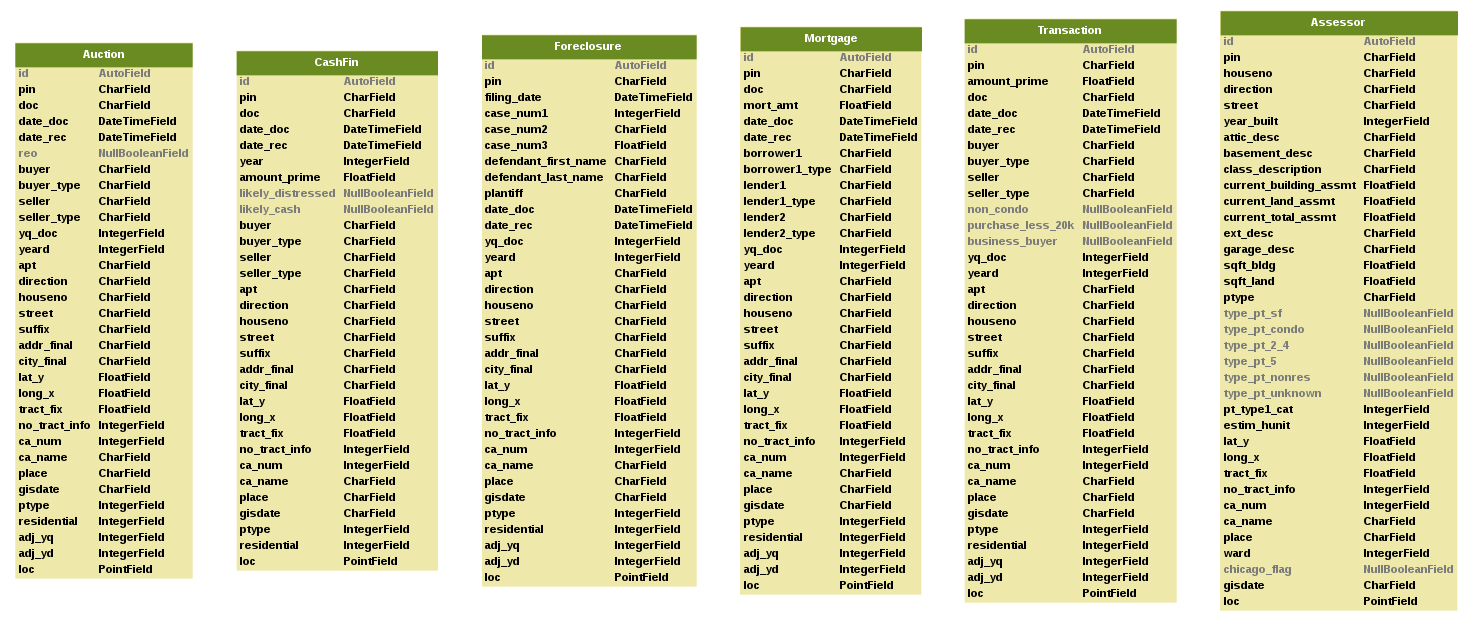
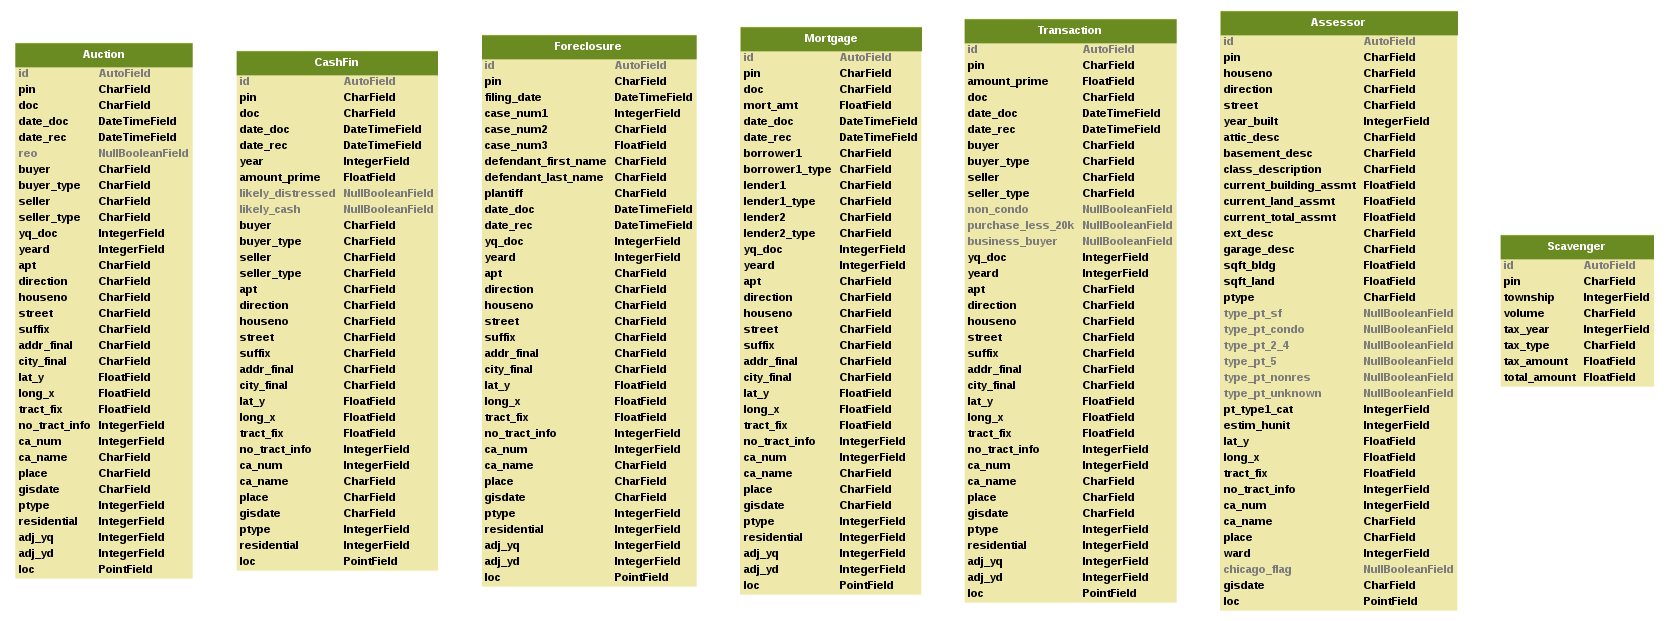
Added 'Scavenger' as a django model; created and applied database migration; generated new db model image; created and tested load script; ran the import successfully. Reproduced Katie's summary results successfully. Closes #18.

diff --git a/landbank/landbank_data/migrations/0003_auto__add_scavenger.py b/landbank/landbank_data/migrations/0003_auto__add_scavenger.py
@@ -1,0 +1,263 @@
+# -*- coding: utf-8 -*-
+import datetime
+from south.db import db
+from south.v2 import SchemaMigration
+from django.db import models
+
+
+class Migration(SchemaMigration):
+
+    def forwards(self, orm):
+        # Adding model 'Scavenger'
+        db.create_table(u'landbank_data_scavenger', (
+            (u'id', self.gf('django.db.models.fields.AutoField')(primary_key=True)),
+            ('pin', self.gf('django.db.models.fields.CharField')(max_length=14, db_index=True)),
+            ('township', self.gf('django.db.models.fields.IntegerField')(null=True)),
+            ('volume', self.gf('django.db.models.fields.CharField')(max_length=3, null=True)),
+            ('tax_year', self.gf('django.db.models.fields.IntegerField')(null=True)),
+            ('tax_type', self.gf('django.db.models.fields.CharField')(max_length=2, null=True)),
+            ('tax_amount', self.gf('django.db.models.fields.FloatField')(null=True)),
+            ('total_amount', self.gf('django.db.models.fields.FloatField')(null=True)),
+        ))
+        db.send_create_signal('landbank_data', ['Scavenger'])
+
+
+    def backwards(self, orm):
+        # Deleting model 'Scavenger'
+        db.delete_table(u'landbank_data_scavenger')
+
+
+    models = {
+        'landbank_data.assessor': {
+            'Meta': {'object_name': 'Assessor'},
+            'attic_desc': ('django.db.models.fields.CharField', [], {'max_length': '250', 'null': 'True'}),
+            'basement_desc': ('django.db.models.fields.CharField', [], {'max_length': '250', 'null': 'True'}),
+            'ca_name': ('django.db.models.fields.CharField', [], {'max_length': '100', 'null': 'True'}),
+            'ca_num': ('django.db.models.fields.IntegerField', [], {'null': 'True'}),
+            'chicago_flag': ('django.db.models.fields.NullBooleanField', [], {'null': 'True', 'blank': 'True'}),
+            'class_description': ('django.db.models.fields.CharField', [], {'max_length': '250', 'null': 'True'}),
+            'current_building_assmt': ('django.db.models.fields.FloatField', [], {'null': 'True'}),
+            'current_land_assmt': ('django.db.models.fields.FloatField', [], {'null': 'True'}),
+            'current_total_assmt': ('django.db.models.fields.FloatField', [], {'null': 'True'}),
+            'direction': ('django.db.models.fields.CharField', [], {'max_length': '2', 'null': 'True'}),
+            'estim_hunit': ('django.db.models.fields.IntegerField', [], {'null': 'True'}),
+            'ext_desc': ('django.db.models.fields.CharField', [], {'max_length': '100', 'null': 'True'}),
+            'garage_desc': ('django.db.models.fields.CharField', [], {'max_length': '100', 'null': 'True'}),
+            'gisdate': ('django.db.models.fields.CharField', [], {'max_length': '100', 'null': 'True'}),
+            'houseno': ('django.db.models.fields.CharField', [], {'max_length': '100', 'null': 'True'}),
+            u'id': ('django.db.models.fields.AutoField', [], {'primary_key': 'True'}),
+            'lat_y': ('django.db.models.fields.FloatField', [], {'null': 'True'}),
+            'loc': ('django.contrib.gis.db.models.fields.PointField', [], {'null': 'True'}),
+            'long_x': ('django.db.models.fields.FloatField', [], {'null': 'True'}),
+            'no_tract_info': ('django.db.models.fields.IntegerField', [], {'null': 'True'}),
+            'pin': ('django.db.models.fields.CharField', [], {'max_length': '14', 'db_index': 'True'}),
+            'place': ('django.db.models.fields.CharField', [], {'max_length': '100', 'null': 'True'}),
+            'pt_type1_cat': ('django.db.models.fields.IntegerField', [], {'null': 'True'}),
+            'ptype': ('django.db.models.fields.CharField', [], {'max_length': '100', 'null': 'True'}),
+            'sqft_bldg': ('django.db.models.fields.FloatField', [], {'null': 'True'}),
+            'sqft_land': ('django.db.models.fields.FloatField', [], {'null': 'True'}),
+            'street': ('django.db.models.fields.CharField', [], {'max_length': '100', 'null': 'True'}),
+            'tract_fix': ('django.db.models.fields.FloatField', [], {'null': 'True'}),
+            'type_pt_2_4': ('django.db.models.fields.NullBooleanField', [], {'null': 'True', 'blank': 'True'}),
+            'type_pt_5': ('django.db.models.fields.NullBooleanField', [], {'null': 'True', 'blank': 'True'}),
+            'type_pt_condo': ('django.db.models.fields.NullBooleanField', [], {'null': 'True', 'blank': 'True'}),
+            'type_pt_nonres': ('django.db.models.fields.NullBooleanField', [], {'null': 'True', 'blank': 'True'}),
+            'type_pt_sf': ('django.db.models.fields.NullBooleanField', [], {'null': 'True', 'blank': 'True'}),
+            'type_pt_unknown': ('django.db.models.fields.NullBooleanField', [], {'null': 'True', 'blank': 'True'}),
+            'ward': ('django.db.models.fields.IntegerField', [], {'null': 'True'}),
+            'year_built': ('django.db.models.fields.IntegerField', [], {'null': 'True'})
+        },
+        'landbank_data.auction': {
+            'Meta': {'object_name': 'Auction'},
+            'addr_final': ('django.db.models.fields.CharField', [], {'max_length': '100', 'null': 'True'}),
+            'adj_yd': ('django.db.models.fields.IntegerField', [], {'null': 'True'}),
+            'adj_yq': ('django.db.models.fields.IntegerField', [], {'null': 'True'}),
+            'apt': ('django.db.models.fields.CharField', [], {'max_length': '10', 'null': 'True'}),
+            'buyer': ('django.db.models.fields.CharField', [], {'max_length': '100', 'null': 'True'}),
+            'buyer_type': ('django.db.models.fields.CharField', [], {'max_length': '100', 'null': 'True'}),
+            'ca_name': ('django.db.models.fields.CharField', [], {'max_length': '100', 'null': 'True'}),
+            'ca_num': ('django.db.models.fields.IntegerField', [], {'null': 'True'}),
+            'city_final': ('django.db.models.fields.CharField', [], {'max_length': '100', 'null': 'True'}),
+            'date_doc': ('django.db.models.fields.DateTimeField', [], {'null': 'True'}),
+            'date_rec': ('django.db.models.fields.DateTimeField', [], {'null': 'True'}),
+            'direction': ('django.db.models.fields.CharField', [], {'max_length': '2', 'null': 'True'}),
+            'doc': ('django.db.models.fields.CharField', [], {'max_length': '16', 'null': 'True'}),
+            'gisdate': ('django.db.models.fields.CharField', [], {'max_length': '100', 'null': 'True'}),
+            'houseno': ('django.db.models.fields.CharField', [], {'max_length': '10', 'null': 'True'}),
+            u'id': ('django.db.models.fields.AutoField', [], {'primary_key': 'True'}),
+            'lat_y': ('django.db.models.fields.FloatField', [], {'null': 'True'}),
+            'loc': ('django.contrib.gis.db.models.fields.PointField', [], {'null': 'True'}),
+            'long_x': ('django.db.models.fields.FloatField', [], {'null': 'True'}),
+            'no_tract_info': ('django.db.models.fields.IntegerField', [], {'null': 'True'}),
+            'pin': ('django.db.models.fields.CharField', [], {'max_length': '14', 'db_index': 'True'}),
+            'place': ('django.db.models.fields.CharField', [], {'max_length': '100', 'null': 'True'}),
+            'ptype': ('django.db.models.fields.IntegerField', [], {'null': 'True'}),
+            'reo': ('django.db.models.fields.NullBooleanField', [], {'null': 'True', 'blank': 'True'}),
+            'residential': ('django.db.models.fields.IntegerField', [], {'null': 'True'}),
+            'seller': ('django.db.models.fields.CharField', [], {'max_length': '100', 'null': 'True'}),
+            'seller_type': ('django.db.models.fields.CharField', [], {'max_length': '100', 'null': 'True'}),
+            'street': ('django.db.models.fields.CharField', [], {'max_length': '50', 'null': 'True'}),
+            'suffix': ('django.db.models.fields.CharField', [], {'max_length': '10', 'null': 'True'}),
+            'tract_fix': ('django.db.models.fields.FloatField', [], {'null': 'True'}),
+            'yeard': ('django.db.models.fields.IntegerField', [], {'null': 'True'}),
+            'yq_doc': ('django.db.models.fields.IntegerField', [], {'null': 'True'})
+        },
+        'landbank_data.cashfin': {
+            'Meta': {'object_name': 'CashFin'},
+            'addr_final': ('django.db.models.fields.CharField', [], {'max_length': '100', 'null': 'True'}),
+            'amount_prime': ('django.db.models.fields.FloatField', [], {'null': 'True'}),
+            'apt': ('django.db.models.fields.CharField', [], {'max_length': '100', 'null': 'True'}),
+            'buyer': ('django.db.models.fields.CharField', [], {'max_length': '100', 'null': 'True'}),
+            'buyer_type': ('django.db.models.fields.CharField', [], {'max_length': '100', 'null': 'True'}),
+            'ca_name': ('django.db.models.fields.CharField', [], {'max_length': '100', 'null': 'True'}),
+            'ca_num': ('django.db.models.fields.IntegerField', [], {'null': 'True'}),
+            'city_final': ('django.db.models.fields.CharField', [], {'max_length': '100', 'null': 'True'}),
+            'date_doc': ('django.db.models.fields.DateTimeField', [], {'null': 'True'}),
+            'date_rec': ('django.db.models.fields.DateTimeField', [], {'null': 'True'}),
+            'direction': ('django.db.models.fields.CharField', [], {'max_length': '100', 'null': 'True'}),
+            'doc': ('django.db.models.fields.CharField', [], {'max_length': '16', 'null': 'True'}),
+            'gisdate': ('django.db.models.fields.CharField', [], {'max_length': '100', 'null': 'True'}),
+            'houseno': ('django.db.models.fields.CharField', [], {'max_length': '100', 'null': 'True'}),
+            u'id': ('django.db.models.fields.AutoField', [], {'primary_key': 'True'}),
+            'lat_y': ('django.db.models.fields.FloatField', [], {'null': 'True'}),
+            'likely_cash': ('django.db.models.fields.NullBooleanField', [], {'null': 'True', 'blank': 'True'}),
+            'likely_distressed': ('django.db.models.fields.NullBooleanField', [], {'null': 'True', 'blank': 'True'}),
+            'loc': ('django.contrib.gis.db.models.fields.PointField', [], {'null': 'True'}),
+            'long_x': ('django.db.models.fields.FloatField', [], {'null': 'True'}),
+            'no_tract_info': ('django.db.models.fields.IntegerField', [], {'null': 'True'}),
+            'pin': ('django.db.models.fields.CharField', [], {'max_length': '14', 'db_index': 'True'}),
+            'place': ('django.db.models.fields.CharField', [], {'max_length': '100', 'null': 'True'}),
+            'ptype': ('django.db.models.fields.IntegerField', [], {'null': 'True'}),
+            'residential': ('django.db.models.fields.IntegerField', [], {'null': 'True'}),
+            'seller': ('django.db.models.fields.CharField', [], {'max_length': '100', 'null': 'True'}),
+            'seller_type': ('django.db.models.fields.CharField', [], {'max_length': '100', 'null': 'True'}),
+            'street': ('django.db.models.fields.CharField', [], {'max_length': '100', 'null': 'True'}),
+            'suffix': ('django.db.models.fields.CharField', [], {'max_length': '100', 'null': 'True'}),
+            'tract_fix': ('django.db.models.fields.FloatField', [], {'null': 'True'}),
+            'year': ('django.db.models.fields.IntegerField', [], {'null': 'True'})
+        },
+        'landbank_data.foreclosure': {
+            'Meta': {'object_name': 'Foreclosure'},
+            'addr_final': ('django.db.models.fields.CharField', [], {'max_length': '100', 'null': 'True'}),
+            'adj_yd': ('django.db.models.fields.IntegerField', [], {'null': 'True'}),
+            'adj_yq': ('django.db.models.fields.IntegerField', [], {'null': 'True'}),
+            'apt': ('django.db.models.fields.CharField', [], {'max_length': '10', 'null': 'True'}),
+            'ca_name': ('django.db.models.fields.CharField', [], {'max_length': '100', 'null': 'True'}),
+            'ca_num': ('django.db.models.fields.IntegerField', [], {'null': 'True'}),
+            'case_num1': ('django.db.models.fields.IntegerField', [], {'null': 'True'}),
+            'case_num2': ('django.db.models.fields.CharField', [], {'max_length': '100', 'null': 'True'}),
+            'case_num3': ('django.db.models.fields.FloatField', [], {'null': 'True'}),
+            'city_final': ('django.db.models.fields.CharField', [], {'max_length': '100', 'null': 'True'}),
+            'date_doc': ('django.db.models.fields.DateTimeField', [], {'null': 'True'}),
+            'date_rec': ('django.db.models.fields.DateTimeField', [], {'null': 'True'}),
+            'defendant_first_name': ('django.db.models.fields.CharField', [], {'max_length': '100', 'null': 'True'}),
+            'defendant_last_name': ('django.db.models.fields.CharField', [], {'max_length': '100', 'null': 'True'}),
+            'direction': ('django.db.models.fields.CharField', [], {'max_length': '2', 'null': 'True'}),
+            'filing_date': ('django.db.models.fields.DateTimeField', [], {'null': 'True'}),
+            'gisdate': ('django.db.models.fields.CharField', [], {'max_length': '100', 'null': 'True'}),
+            'houseno': ('django.db.models.fields.CharField', [], {'max_length': '10', 'null': 'True'}),
+            u'id': ('django.db.models.fields.AutoField', [], {'primary_key': 'True'}),
+            'lat_y': ('django.db.models.fields.FloatField', [], {'null': 'True'}),
+            'loc': ('django.contrib.gis.db.models.fields.PointField', [], {'null': 'True'}),
+            'long_x': ('django.db.models.fields.FloatField', [], {'null': 'True'}),
+            'no_tract_info': ('django.db.models.fields.IntegerField', [], {'null': 'True'}),
+            'pin': ('django.db.models.fields.CharField', [], {'max_length': '14', 'db_index': 'True'}),
+            'place': ('django.db.models.fields.CharField', [], {'max_length': '100', 'null': 'True'}),
+            'plantiff': ('django.db.models.fields.CharField', [], {'max_length': '100', 'null': 'True'}),
+            'ptype': ('django.db.models.fields.IntegerField', [], {'null': 'True'}),
+            'residential': ('django.db.models.fields.IntegerField', [], {'null': 'True'}),
+            'street': ('django.db.models.fields.CharField', [], {'max_length': '50', 'null': 'True'}),
+            'suffix': ('django.db.models.fields.CharField', [], {'max_length': '10', 'null': 'True'}),
+            'tract_fix': ('django.db.models.fields.FloatField', [], {'null': 'True'}),
+            'yeard': ('django.db.models.fields.IntegerField', [], {'null': 'True'}),
+            'yq_doc': ('django.db.models.fields.IntegerField', [], {'null': 'True'})
+        },
+        'landbank_data.mortgage': {
+            'Meta': {'object_name': 'Mortgage'},
+            'addr_final': ('django.db.models.fields.CharField', [], {'max_length': '100', 'null': 'True'}),
+            'adj_yd': ('django.db.models.fields.IntegerField', [], {'null': 'True'}),
+            'adj_yq': ('django.db.models.fields.IntegerField', [], {'null': 'True'}),
+            'apt': ('django.db.models.fields.CharField', [], {'max_length': '10', 'null': 'True'}),
+            'borrower1': ('django.db.models.fields.CharField', [], {'max_length': '100', 'null': 'True'}),
+            'borrower1_type': ('django.db.models.fields.CharField', [], {'max_length': '10', 'null': 'True'}),
+            'ca_name': ('django.db.models.fields.CharField', [], {'max_length': '100', 'null': 'True'}),
+            'ca_num': ('django.db.models.fields.IntegerField', [], {'null': 'True'}),
+            'city_final': ('django.db.models.fields.CharField', [], {'max_length': '100', 'null': 'True'}),
+            'date_doc': ('django.db.models.fields.DateTimeField', [], {'null': 'True'}),
+            'date_rec': ('django.db.models.fields.DateTimeField', [], {'null': 'True'}),
+            'direction': ('django.db.models.fields.CharField', [], {'max_length': '2', 'null': 'True'}),
+            'doc': ('django.db.models.fields.CharField', [], {'max_length': '100', 'null': 'True'}),
+            'gisdate': ('django.db.models.fields.CharField', [], {'max_length': '100', 'null': 'True'}),
+            'houseno': ('django.db.models.fields.CharField', [], {'max_length': '10', 'null': 'True'}),
+            u'id': ('django.db.models.fields.AutoField', [], {'primary_key': 'True'}),
+            'lat_y': ('django.db.models.fields.FloatField', [], {'null': 'True'}),
+            'lender1': ('django.db.models.fields.CharField', [], {'max_length': '100', 'null': 'True'}),
+            'lender1_type': ('django.db.models.fields.CharField', [], {'max_length': '10', 'null': 'True'}),
+            'lender2': ('django.db.models.fields.CharField', [], {'max_length': '100', 'null': 'True'}),
+            'lender2_type': ('django.db.models.fields.CharField', [], {'max_length': '10', 'null': 'True'}),
+            'loc': ('django.contrib.gis.db.models.fields.PointField', [], {'null': 'True'}),
+            'long_x': ('django.db.models.fields.FloatField', [], {'null': 'True'}),
+            'mort_amt': ('django.db.models.fields.FloatField', [], {'null': 'True'}),
+            'no_tract_info': ('django.db.models.fields.IntegerField', [], {'null': 'True'}),
+            'pin': ('django.db.models.fields.CharField', [], {'max_length': '14', 'db_index': 'True'}),
+            'place': ('django.db.models.fields.CharField', [], {'max_length': '100', 'null': 'True'}),
+            'ptype': ('django.db.models.fields.IntegerField', [], {'null': 'True'}),
+            'residential': ('django.db.models.fields.IntegerField', [], {'null': 'True'}),
+            'street': ('django.db.models.fields.CharField', [], {'max_length': '50', 'null': 'True'}),
+            'suffix': ('django.db.models.fields.CharField', [], {'max_length': '10', 'null': 'True'}),
+            'tract_fix': ('django.db.models.fields.FloatField', [], {'null': 'True'}),
+            'yeard': ('django.db.models.fields.IntegerField', [], {'null': 'True'}),
+            'yq_doc': ('django.db.models.fields.IntegerField', [], {'null': 'True'})
+        },
+        'landbank_data.scavenger': {
+            'Meta': {'object_name': 'Scavenger'},
+            u'id': ('django.db.models.fields.AutoField', [], {'primary_key': 'True'}),
+            'pin': ('django.db.models.fields.CharField', [], {'max_length': '14', 'db_index': 'True'}),
+            'tax_amount': ('django.db.models.fields.FloatField', [], {'null': 'True'}),
+            'tax_type': ('django.db.models.fields.CharField', [], {'max_length': '2', 'null': 'True'}),
+            'tax_year': ('django.db.models.fields.IntegerField', [], {'null': 'True'}),
+            'total_amount': ('django.db.models.fields.FloatField', [], {'null': 'True'}),
+            'township': ('django.db.models.fields.IntegerField', [], {'null': 'True'}),
+            'volume': ('django.db.models.fields.CharField', [], {'max_length': '3', 'null': 'True'})
+        },
+        'landbank_data.transaction': {
+            'Meta': {'object_name': 'Transaction'},
+            'addr_final': ('django.db.models.fields.CharField', [], {'max_length': '100', 'null': 'True'}),
+            'adj_yd': ('django.db.models.fields.IntegerField', [], {'null': 'True'}),
+            'adj_yq': ('django.db.models.fields.IntegerField', [], {'null': 'True'}),
+            'amount_prime': ('django.db.models.fields.FloatField', [], {'null': 'True'}),
+            'apt': ('django.db.models.fields.CharField', [], {'max_length': '10', 'null': 'True'}),
+            'business_buyer': ('django.db.models.fields.NullBooleanField', [], {'null': 'True', 'blank': 'True'}),
+            'buyer': ('django.db.models.fields.CharField', [], {'max_length': '100', 'null': 'True'}),
+            'buyer_type': ('django.db.models.fields.CharField', [], {'max_length': '10', 'null': 'True'}),
+            'ca_name': ('django.db.models.fields.CharField', [], {'max_length': '100', 'null': 'True'}),
+            'ca_num': ('django.db.models.fields.IntegerField', [], {'null': 'True'}),
+            'city_final': ('django.db.models.fields.CharField', [], {'max_length': '100', 'null': 'True'}),
+            'date_doc': ('django.db.models.fields.DateTimeField', [], {'null': 'True'}),
+            'date_rec': ('django.db.models.fields.DateTimeField', [], {'null': 'True'}),
+            'direction': ('django.db.models.fields.CharField', [], {'max_length': '2', 'null': 'True'}),
+            'doc': ('django.db.models.fields.CharField', [], {'max_length': '100', 'null': 'True'}),
+            'gisdate': ('django.db.models.fields.CharField', [], {'max_length': '100', 'null': 'True'}),
+            'houseno': ('django.db.models.fields.CharField', [], {'max_length': '10', 'null': 'True'}),
+            u'id': ('django.db.models.fields.AutoField', [], {'primary_key': 'True'}),
+            'lat_y': ('django.db.models.fields.FloatField', [], {'null': 'True'}),
+            'loc': ('django.contrib.gis.db.models.fields.PointField', [], {'null': 'True'}),
+            'long_x': ('django.db.models.fields.FloatField', [], {'null': 'True'}),
+            'no_tract_info': ('django.db.models.fields.IntegerField', [], {'null': 'True'}),
+            'non_condo': ('django.db.models.fields.NullBooleanField', [], {'null': 'True', 'blank': 'True'}),
+            'pin': ('django.db.models.fields.CharField', [], {'max_length': '14', 'db_index': 'True'}),
+            'place': ('django.db.models.fields.CharField', [], {'max_length': '100', 'null': 'True'}),
+            'ptype': ('django.db.models.fields.IntegerField', [], {'null': 'True'}),
+            'purchase_less_20k': ('django.db.models.fields.NullBooleanField', [], {'null': 'True', 'blank': 'True'}),
+            'residential': ('django.db.models.fields.IntegerField', [], {'null': 'True'}),
+            'seller': ('django.db.models.fields.CharField', [], {'max_length': '100', 'null': 'True'}),
+            'seller_type': ('django.db.models.fields.CharField', [], {'max_length': '10', 'null': 'True'}),
+            'street': ('django.db.models.fields.CharField', [], {'max_length': '50', 'null': 'True'}),
+            'suffix': ('django.db.models.fields.CharField', [], {'max_length': '10', 'null': 'True'}),
+            'tract_fix': ('django.db.models.fields.FloatField', [], {'null': 'True'}),
+            'yeard': ('django.db.models.fields.IntegerField', [], {'null': 'True'}),
+            'yq_doc': ('django.db.models.fields.IntegerField', [], {'null': 'True'})
+        }
+    }
+
+    complete_apps = ['landbank_data']

diff --git a/landbank/landbank_data/load_scav.py b/landbank/landbank_data/load_scav.py
@@ -1,0 +1,42 @@
+import os, csv
+from load_utils import yy_to_yyyy
+from models import Scavenger
+from decimal import Decimal
+
+scavenger_file = '/mnt/ebs/data/scavenger.tsv'
+
+def run(verbose = True):
+  load_scavengers(scavenger_file, verbose = verbose)
+
+def load_scavengers(scavenger_file, verbose = False):
+  with open(scavenger_file,'r') as f:
+    reader = csv.reader(f, delimiter="\t")
+    reader.next()
+    #i = 0;
+    for row in reader:
+      #if (i==10):
+        #break
+      try:
+        scavenger =  Scavenger.objects.get(\
+	township = int(row[0])\
+	,volume = row[1].strip()
+	# We expect to see the format "01-23-456-789-0000' so we must strip hyphens
+        ,pin = row[2].translate(None, '-').strip()\
+	,tax_year = yy_to_yyyy(row[3])\
+	,tax_type = row[4].strip()\
+	,tax_amount = Decimal(row[5].translate(None, '$,'))\
+	,total_amount = Decimal(row[6].translate(None, '$,'))\
+        )
+      except:
+        scavenger =  Scavenger(\
+	township = int(row[0])\
+	,volume = row[1].strip()
+	# We expect to see the format "01-23-456-789-0000' so we must strip hyphens
+        ,pin = row[2].translate(None, '-').strip()\
+	,tax_year = yy_to_yyyy(row[3])\
+	,tax_type = row[4].strip()\
+	,tax_amount = Decimal(row[5].translate(None, '$,'))\
+	,total_amount = Decimal(row[6].translate(None, '$,'))\
+        )
+      #i += 1
+      scavenger.save()

diff --git a/landbank/landbank_data/load_utils.py b/landbank/landbank_data/load_utils.py
@@ -8,9 +8,17 @@ utc = pytz.utc
 central_tz = timezone('US/Central')
 gregorian_diff = (datetime.datetime(1970,1,1) - datetime.datetime(1582,10,14)).total_seconds()
 year_2100 = time.mktime(datetime.datetime(2100,1,1).timetuple())
-
 def spss_to_posix(spss_timestamp):
 	if (spss_timestamp > year_2100):
 		return datetime.datetime.fromtimestamp(Decimal(spss_timestamp)-Decimal(gregorian_diff)).replace(tzinfo=utc).astimezone(central_tz) 
 	else:
 		return spss_timestamp
+
+# Converts a string in the form '08' and returns a 4-digit integer year e.g. 2008
+this_year = datetime.datetime.now().year
+def yy_to_yyyy(yy):
+	yy_num = int(yy)
+	if (this_year-2000 >= yy_num):
+		return 2000 + yy_num
+	else:
+		return 1900 + yy_num 

diff --git a/landbank/landbank_data/models.py b/landbank/landbank_data/models.py
@@ -242,3 +242,17 @@ class Assessor(models.Model):
   class Meta:
     app_label = 'landbank_data'
 
+
+class Scavenger(models.Model):
+  pin                           = models.CharField('Property ID number', max_length=14, db_index=True)
+  township			= models.IntegerField('Township ID number', null=True)
+  volume			= models.CharField('???', max_length=3, null=True)
+  tax_year			= models.IntegerField('Year of tax balance', null=True)
+  tax_type			= models.CharField('???', max_length=2, null=True)
+  tax_amount			= models.FloatField('???', null=True)
+  total_amount			= models.FloatField('???', null=True)
+  def __unicode__(self):
+    return unicode(self.pin)
+  class Meta:
+    app_label = 'landbank_data'
+
